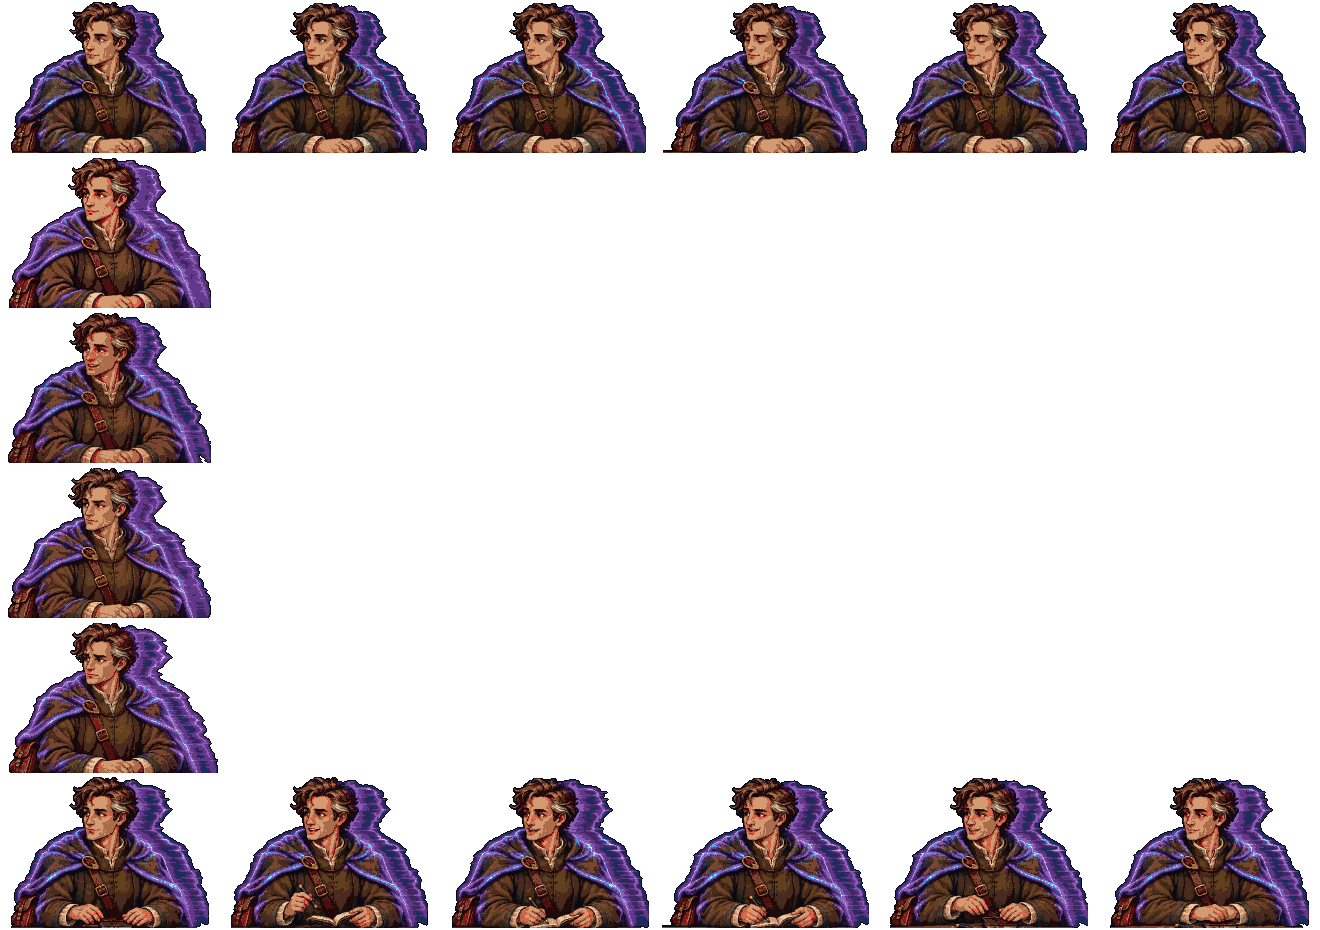
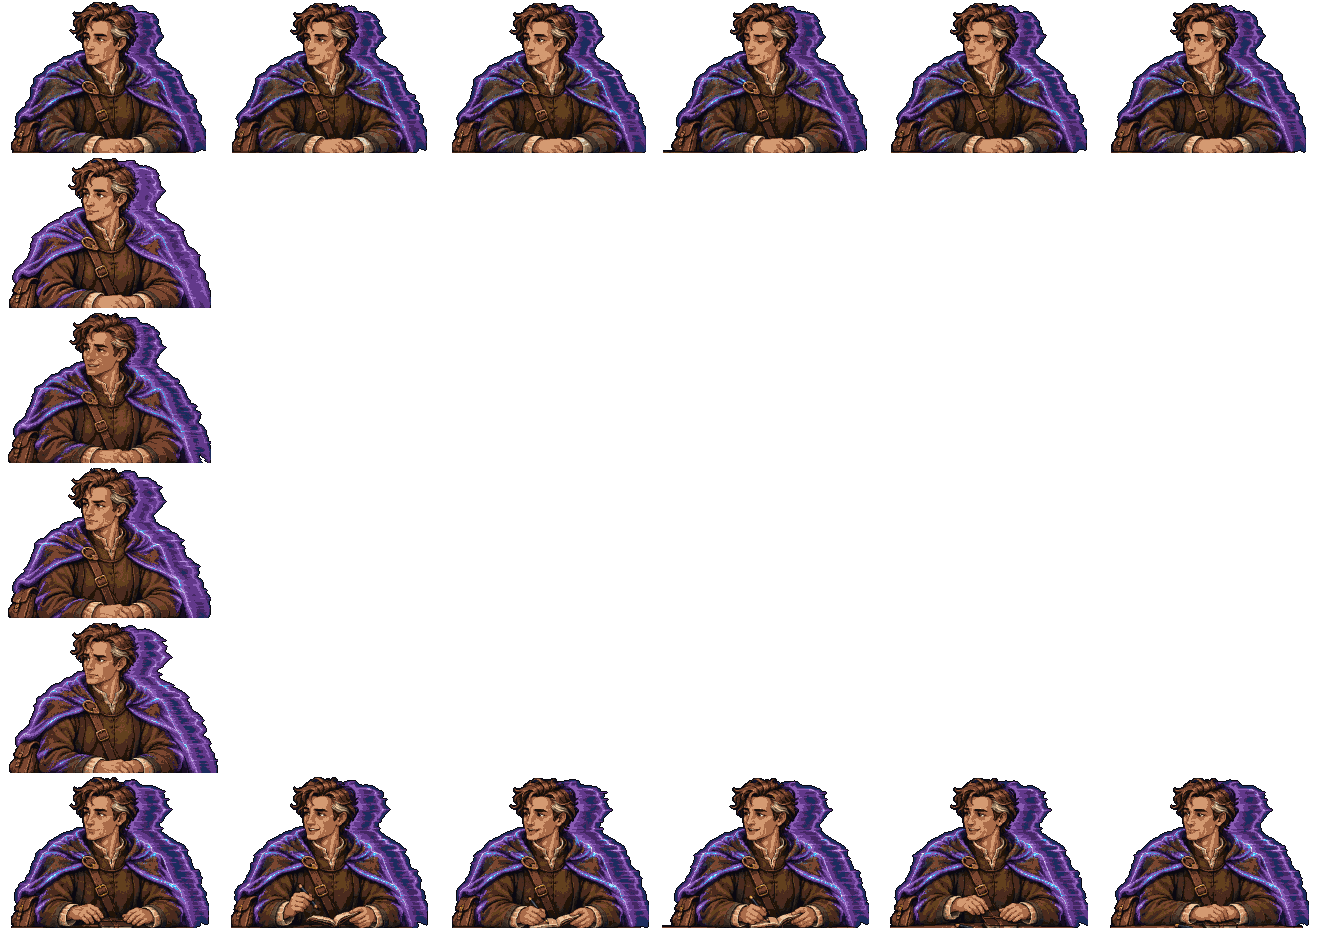
Corwen Dace's portraits recut with no red: pt_dace and pt_dacedisp with the palette's reds and fire left out
Griz on eyes-dace-face-1029, marked broken (his ear file of 10-29, 2212Z): "lot of red-shifting going on in various frames". Section 45 took red and fire out of his figure (dace_p1, dacedisp_p1: none in either), not his portrait: the shadows in his hair, the lines of his face and the strap's and satchel's oxblood snapped to the red ramp, 640 px a frame on the idle and 900 to 1,480 on the stills and work; the cloak's look had 1,400 to 2,900 a frame, its violet light sending his cheeks and knuckles to the lightest red (#e8624a). tools/portrait-sheet.py PEOPLE dace and dacedisp take `avoid` ['red', 'fire'], as Edric's: none of either ramp in any of the 16 frames of each now, checked by count and at 4x frame by frame (contact sheets of the heads and of the strap, satchel and hands). Nothing else recut.

Fresh eyes row eyes-dace-face-1029n (deep16/?portraits&who=dace,dacedisp). Stamps rebuilt.

diff --git a/js/eyes.js b/js/eyes.js
@@ -698,5 +698,8 @@
     'eyes-sabeth-mouth-1029': { pri: 2, group: G2, title: 'Sabeth Pollard at the Guano Galleries\' mouth, in her own figure all round (10-29)', pt: 'the bestiary, the Edric and Dace cutter seat (tools/keeper-town-sheet.py sabeth_p1; deep16/js/counter.js C.FIG.sabeth) · eyes',
       url: 'deep16/?roam=galleries&flags=cullHired&at=13,11&face=0,-1&fresh=1029b',
       look: 'You stand two squares below her at the mouth: Sabeth in her waistcoat and a long brown skirt, 50 px, in place of the innkeeper stand-in. Walk round her: she turns to whoever speaks (SW, W and NW are the mirrors). Speak to her: the cull and the one law on her face.' },
+    'eyes-dace-face-1029n': { pri: 2, group: G2, title: 'Corwen Dace\'s talking portrait recut with no red, plain and in the cloak of displacement (10-29 night)', pt: 'the bestiary, the cutter of 10-29 night (tools/portrait-sheet.py pt_dace, pt_dacedisp: `avoid` red and fire) · eyes',
+      url: 'deep16/?portraits&who=dace,dacedisp&fresh=1029r',
+      look: 'Your “lot of red-shifting going on in various frames” on his face. Both of his faces are cut again with the palette\'s reds and fire left out, as his figure was: the shadows in his hair, the lines of his face, the strap and the satchel go to the browns and his skin, and in the cloak the violet light no longer puts the lightest red on his cheeks and knuckles. Step through the idle, the four moods and the notebook on both: no frame should go red against the one before it. His idle cloak is still a shade greyer than his stills\' and work\'s, as the art desk drew it.' },
   };
 })();

diff --git a/deep16/index.html b/deep16/index.html
@@ -77,7 +77,7 @@
 <script src="js/art.js?v=e1ce4cf012"></script>
 <script src="data/cavern.js?v=647c1a184a"></script>
 <script src="data/maps.js?v=4ec440bc24"></script>
-<script src="data/sprites.js?v=7fe34f9764"></script>
+<script src="data/sprites.js?v=4caf5059b6"></script>
 <script src="js/sprites.js?v=132505c283"></script>
 <script src="js/save.js?v=5c4dfded55"></script>
 <script src="data/spells.js?v=b819b6e987"></script>
@@ -165,7 +165,7 @@
 <script src="js/skyshow.js?v=7151daab7a"></script>
 <script src="js/barleyshow.js?v=186123cdd5"></script>
 <script src="js/rulesshow.js?v=ba52d8fe7d"></script>
-<script src="../js/eyes.js?v=c0b8fac1fa"></script>
+<script src="../js/eyes.js?v=177f0dd6eb"></script>
 <script src="js/onegallery.js?v=198c5b983d"></script>
 <script src="js/main.js?v=ce6ba07215"></script>
 </body>

diff --git a/deep16/data/sprites.js b/deep16/data/sprites.js
@@ -12129,7 +12129,7 @@ true
 "source": "deep16/_src/cassia/ART-89 (the art desk's ART-89, sorted out of Fresh 10-21), cut by tools/portrait-sheet.py"
 },
 "pt_dace": {
-"image": "art/pt_dace.png?v=0ea99195a3",
+"image": "art/pt_dace.png?v=0d81860026",
 "fw": 202,
 "fh": 155,
 "ax": 104,
@@ -12225,7 +12225,7 @@ true
 "source": "deep16/_src/dace/ART-123-DACE (the art desk's ART-123-DACE, sorted out of Fresh 10-21), cut by tools/portrait-sheet.py"
 },
 "pt_dacedisp": {
-"image": "art/pt_dacedisp.png?v=648e52a1ff",
+"image": "art/pt_dacedisp.png?v=7902d9af8f",
 "fw": 220,
 "fh": 155,
 "ax": 105,

diff --git a/tools/portrait-sheet.py b/tools/portrait-sheet.py
@@ -130,11 +130,13 @@ PEOPLE = {
     # warning, "rather than accidental ... bright red nose": left out, they go to his skin)
     # Corwen Dace, the Guano Galleries' modernizer (10-29, the same seat): the art desk's ART-123-DACE, his grandfather's old cloak plain on his shoulders -- his face for
     # the Galleries' scenes and the deep gallery's (js/mines.js M.talk by C.PT); his work the notebook opened and sketched in, talking all the while
-    'dace': ('dace/ART-123-DACE', 'ART-123-DACE', 'npc:dace', {'edge': True, 'bevel': (2, 3, 4, 5)}),
+    'dace': ('dace/ART-123-DACE', 'ART-123-DACE', 'npc:dace', {'edge': True, 'bevel': (2, 3, 4, 5), 'avoid': ['red', 'fire']}),   # (his hair's shadows, his face's lines and
+    # the strap's and satchel's oxblood snapped to the reds, the stills twice the idle's -- Griz, 10-29 night, "lot of red-shifting going on in various frames": left out,
+    # as his figure's; the cloak's look too, whose violet light sent his cheeks and knuckles to the lightest red)
     # Dace in the cloak of displacement (10-29, the same seat, on Griz's "Dace in Displacement Cloak sprites to follow"; his ask to the art desk, "I also need variants where
     # his cloak is a cloak of displacement (obviously magical)"): the art desk's ART-123-DACE-DISPLACEMENT, a second look beside the plain one -- the cloak violet with a
     # blue afterimage of him offset screen-right. Its glow joins the idle's and the work's frames: `ghost` splits them at the real bodies and measures him without it
-    'dacedisp': ('dace/ART-123-DACE-DISPLACEMENT', 'ART-123-DACE-DISPLACEMENT', 'npc:dace (the cloak worn as the magic item)', {'edge': True, 'bevel': (2, 3, 4, 5), 'ghost': {'hues': (205, 285), 'smin': 0.3}, 'untext': {4: [(0, 0, 820, 50)]}}),   # (his skeptical's title, "... DISPLACEMENT SKEPTICAL", ends on his hair)
+    'dacedisp': ('dace/ART-123-DACE-DISPLACEMENT', 'ART-123-DACE-DISPLACEMENT', 'npc:dace (the cloak worn as the magic item)', {'edge': True, 'bevel': (2, 3, 4, 5), 'ghost': {'hues': (205, 285), 'smin': 0.3}, 'untext': {4: [(0, 0, 820, 50)]}, 'avoid': ['red', 'fire']}),   # (his skeptical's title, "... DISPLACEMENT SKEPTICAL", ends on his hair)
     # Talmok, the Hex's champion by the sand (10-29, the Edric and Dace cutter seat, on the lanes desk's "Take Talmok after Dace"; art-wanted section 26's last block, a
     # portrait only): the art desk's ART-123-TALMOK, drawn from his own figure (talmok_p1) -- his word in the Hex on his face (js/town.js T.fire, C.takes)
     'talmok': ('talmok/ART-123-TALMOK', 'ART-123-TALMOK', 'the Hex, by the sand (talmok)', {'edge': True, 'bevel': (2, 3, 4, 5), 'match': {6: 1}}),   # (his stills'
